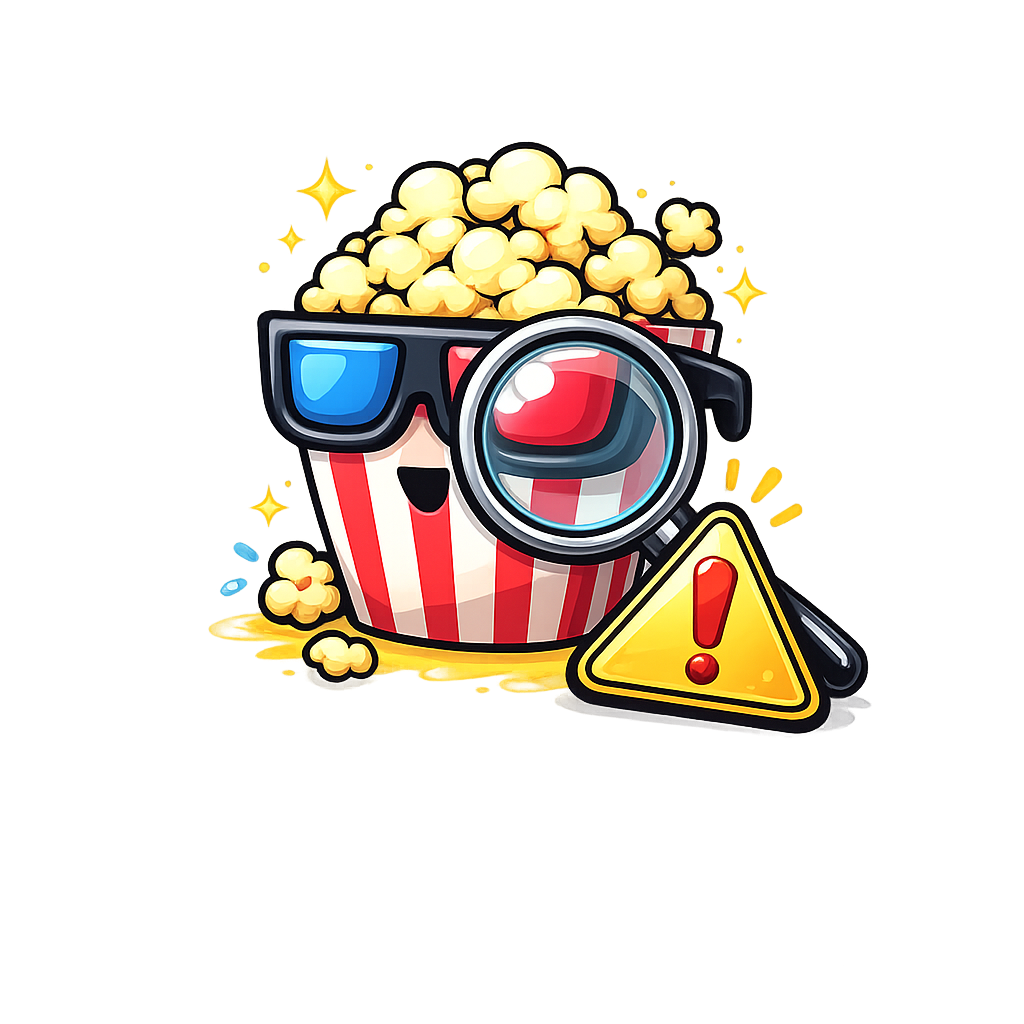
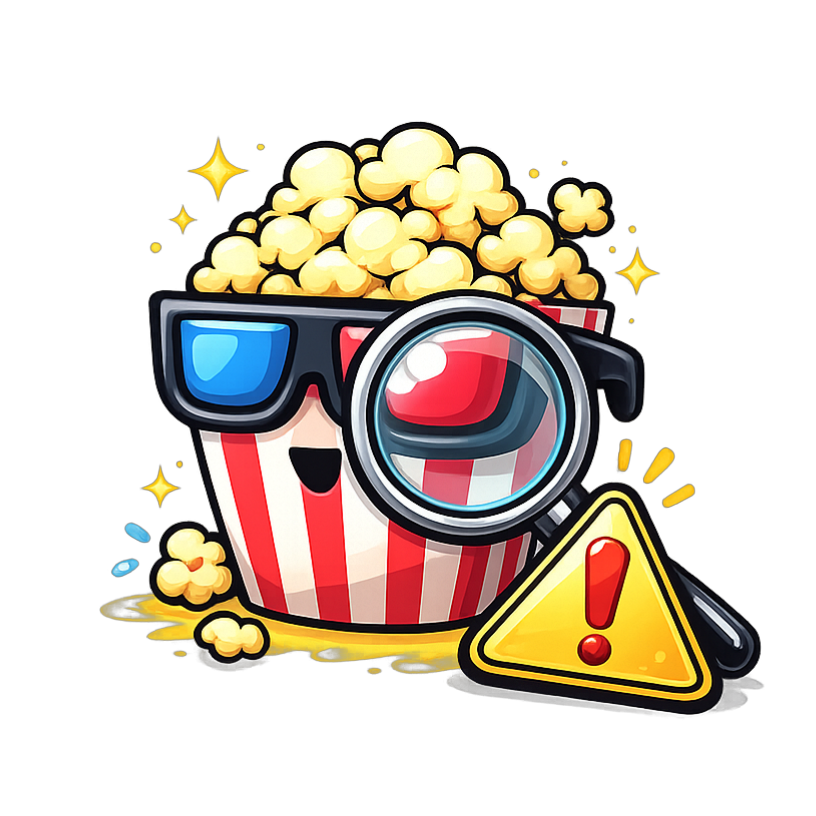
improved error pages

diff --git a/practica2/src/main/resources/templates/reviewForm.html b/practica2/src/main/resources/templates/reviewForm.html
@@ -15,44 +15,44 @@
 
                     {{#review.reviewId}}
                     <form action="/reviews/{{review.reviewId}}/edit" method="post" class="form-review">
-                        {{/review.reviewId}}
-                        {{^review.reviewId}}
-                        <form action="/filmographies/{{filmography.filmographyId}}/reviews/new" method="post"
-                            class="form-review">
-                            {{/review.reviewId}}
-                            <input type="hidden" name="_csrf" value="{{_csrf.token}}">
-                            <!-- Stars -->
-                            <div class="d-flex flex-column justify-content-center gap-1 mb-3">
-                                <label class="fw-bold text-white fs-6 mb-0">Valoración:</label>
-                                <div class="d-flex mt-0" id="starsContainer">
-                                    <i class="bi bi-star star" data-value="1"></i>
-                                    <i class="bi bi-star star" data-value="2"></i>
-                                    <i class="bi bi-star star" data-value="3"></i>
-                                    <i class="bi bi-star star" data-value="4"></i>
-                                    <i class="bi bi-star star" data-value="5"></i>
-                                    <input type="hidden" id="ratingInput" name="reviewStars"
-                                        value="{{#review.reviewStars}}{{review.reviewStars}}{{/review.reviewStars}}{{^review.reviewStars}}0{{/review.reviewStars}}">
-                                    {{#starsError}}
-                                    <div class="alert alert-danger p-1 ms-2" role="alert">Se debe seleccionar una valoración válida</div>
-                                    {{/starsError}}
-                                </div>
-                                
+                    {{/review.reviewId}}
+                    {{^review.reviewId}}
+                    <form action="/filmographies/{{filmography.filmographyId}}/reviews/new" method="post"
+                        class="form-review">
+                    {{/review.reviewId}}
+                        <input type="hidden" name="_csrf" value="{{_csrf.token}}">
+                        <!-- Stars -->
+                        <div class="d-flex flex-column justify-content-center gap-1 mb-3">
+                            <label class="fw-bold text-white fs-6 mb-0">Valoración:</label>
+                            <div class="d-flex mt-0" id="starsContainer">
+                                <i class="bi bi-star star" data-value="1"></i>
+                                <i class="bi bi-star star" data-value="2"></i>
+                                <i class="bi bi-star star" data-value="3"></i>
+                                <i class="bi bi-star star" data-value="4"></i>
+                                <i class="bi bi-star star" data-value="5"></i>
+                                <input type="hidden" id="ratingInput" name="reviewStars"
+                                    value="{{#review.reviewStars}}{{review.reviewStars}}{{/review.reviewStars}}{{^review.reviewStars}}0{{/review.reviewStars}}">
+                                {{#starsError}}
+                                <div class="alert alert-danger p-1 ms-2" role="alert">Se debe seleccionar una valoración válida</div>
+                                {{/starsError}}
                             </div>
-                            <!-- Review -->
-                            <div class="d-flex flex-column gap-2 mb-4">
-                                <textarea name="reviewDescription" class="form-control bg-white text-dark" rows="4"
-                                    placeholder="Escribe tu reseña aquí (opcional)...">{{review.reviewDescription}}</textarea>
-                            </div>
+                            
+                        </div>
+                        <!-- Review -->
+                        <div class="d-flex flex-column gap-2 mb-4">
+                            <textarea name="reviewDescription" class="form-control bg-white text-dark" rows="4"
+                                placeholder="Escribe tu reseña aquí (opcional)...">{{review.reviewDescription}}</textarea>
+                        </div>
 
-                            <div class="d-flex gap-2">
-                                <button type="submit" class="btn btn-primary p-2 w-50">
-                                    {{#review.reviewId}}Actualizar reseña{{/review.reviewId}}
-                                    {{^review.reviewId}}Añadir reseña{{/review.reviewId}}
-                                </button>
-                                <a href="/filmographies/{{filmography.filmographyId}}"
-                                    class="btn btn-danger p-2 w-50 d-flex align-items-center justify-content-center"><strong>Cancelar</strong></a>
-                            </div>
-                        </form>
+                        <div class="d-flex gap-2">
+                            <button type="submit" class="btn btn-primary p-2 w-50">
+                                {{#review.reviewId}}Actualizar reseña{{/review.reviewId}}
+                                {{^review.reviewId}}Añadir reseña{{/review.reviewId}}
+                            </button>
+                            <a href="/filmographies/{{filmography.filmographyId}}"
+                                class="btn btn-danger p-2 w-50 d-flex align-items-center justify-content-center"><strong>Cancelar</strong></a>
+                        </div>
+                    </form>
                 </div>
             </div>
         </div>

diff --git a/practica2/src/main/resources/templates/filmographyForm.html b/practica2/src/main/resources/templates/filmographyForm.html
@@ -20,13 +20,11 @@
                     {{#isSeries}}
                     <form action="/series/{{filmographyId}}/edit" enctype="multipart/form-data" method="post"
                         class="d-flex flex-column gap-3 administer-form">
-                        <input type="hidden" name="_csrf" value="{{_csrf.token}}">
                     {{/isSeries}}
 
                     {{^isSeries}}
                     <form action="/movies/{{filmographyId}}/edit" enctype="multipart/form-data" method="post"
                         class="d-flex flex-column gap-3 administer-form">
-                        <input type="hidden" name="_csrf" value="{{_csrf.token}}">
                     {{/isSeries}}
                     {{/filmographyId}}
 
@@ -34,15 +32,14 @@
                     {{#isSeries}}
                     <form action="/series/new" enctype="multipart/form-data" method="post"
                         class="d-flex flex-column gap-3 administer-form">
-                        <input type="hidden" name="_csrf" value="{{_csrf.token}}">
                     {{/isSeries}}
                     
                     {{^isSeries}}
                     <form action="/movies/new" enctype="multipart/form-data" method="post"
                         class="d-flex flex-column gap-3 administer-form">
-                        <input type="hidden" name="_csrf" value="{{_csrf.token}}">
                     {{/isSeries}}
                     {{/filmographyId}}
+                        <input type="hidden" name="_csrf" value="{{_csrf.token}}">
                         <!-- Clikable Image -->
                          {{#filmographyImage}}
                         <div class="d-flex flex-column align-items-center mb-3">

diff --git a/practica2/src/main/resources/templates/error/403.html b/practica2/src/main/resources/templates/error/403.html
@@ -1,17 +1,23 @@
 {{>head}}
 
-<div class="principal primary text-center text-info align-items-center">
+<body class="primary principal">
     {{>header}}
-
-    <h1>Error 403 : {{error}}</h1>
-    <h2>¡Vaya! Solo personal autorizado</h2>
-    <h4>No tienes los permisos necesarios para acceder a esta página</h4>
-    <div class="w-3 m-5">
-        <a href="/principal" class="btn-primary btn-sm text-light text-decoration-none ">
-            Volver al Inicio
-        </a>
+    <div class="content d-flex flex-column align-items-center justify-content-center">
+        <div class="container ">
+            <div class="row align-items-center justify-content-center">
+                <div class="col-8 col-sm-6 col-md-4 col-lg-3">
+                    <img class="img-fluid" src="/images/searchError.png" alt="Imagen Error">
+                </div>
+                <div class="col-12 col-sm-auto text-center text-md-start mt-3 mt-sm-0">
+                    <h1 class="m-0">Error 403 : {{error}}</h1>
+                    <h2 class="m-0">¡Vaya! Solo personal autorizado</h2>
+                    <h4 class="mt-2">No tienes los permisos necesarios para acceder a esta página</h4>
+                </div>
+            </div>
+        </div>
+        <a href="/principal" class="btn btn-primary p-2 px-4 text-decoration-none" style="width: auto;">Volver al Inicio</a>
     </div>
-
-
+    
     {{>footer}}
-</div>
+</body>
+</html>

diff --git a/practica2/src/main/resources/templates/error/400.html b/practica2/src/main/resources/templates/error/400.html
@@ -1,16 +1,23 @@
 {{>head}}
 
-<div class="principal primary text-center text-info align-items-center">
+<body class="primary principal">
     {{>header}}
-
-    <h1>Error 400 : {{error}}</h1>
-    <h4>No hemos podido procesar tu solicitud porque faltan datos o el formato no es el correcto</h4>
-    <div class="w-3 m-5">
-        <a href="/principal" class="btn-primary btn-sm text-light text-decoration-none ">
-            Volver al Inicio
-        </a>
+    <div class="content d-flex flex-column align-items-center justify-content-center">
+        <div class="container ">
+            <div class="row align-items-center justify-content-center">
+                <div class="col-8 col-sm-6 col-md-4 col-lg-3">
+                    <img class="img-fluid" src="/images/searchError.png" alt="Imagen Error">
+                </div>
+                <div class="col-12 col-sm-auto text-center text-md-start mt-3 mt-sm-0">
+                    <h1 class="m-0">Error 400 : {{error}}</h1>
+                    <h2 class="m-0">No hemos podido procesar tu solicitud</h2>
+                    <h4 class="mt-2">Faltan datos o el formato no es el correcto</h4>
+                </div>
+            </div>
+        </div>
+            <a href="/principal" class="btn btn-primary p-2 px-4 text-decoration-none" style="width: auto;">Volver al Inicio</a>
     </div>
-
-
+    
     {{>footer}}
-</div>
+</body>
+</html>

diff --git a/practica2/src/main/resources/templates/error/401.html b/practica2/src/main/resources/templates/error/401.html
@@ -1,17 +1,23 @@
 {{>head}}
 
-<div class="principal primary text-center text-info align-items-center">
+<body class="primary principal">
     {{>header}}
-
-    <h1>Error 401 : {{error}}</h1>
-    <h2>¿No tienes entrada?</h2>
-    <h4>Necesitas identificarte para entrar en esta página</h4>
-    <div class="w-3 m-5">
-        <a href="/login" class="btn-primary btn-sm text-light text-decoration-none ">
-            Iniciar Sesión
-        </a>
+    <div class="content d-flex flex-column align-items-center justify-content-center">
+        <div class="container ">
+            <div class="row align-items-center justify-content-center">
+                <div class="col-8 col-sm-6 col-md-4 col-lg-3">
+                    <img class="img-fluid" src="/images/searchError.png" alt="Imagen Error">
+                </div>
+                <div class="col-12 col-sm-auto text-center text-md-start mt-3 mt-sm-0">
+                    <h1 class="m-0">Error 401 : {{error}}</h1>
+                    <h2 class="m-0">¿No puedes entrar?</h2>
+                    <h4 class="mt-2">Necesitas identificarte para entrar en esta página</h4>
+                </div>
+            </div>
+        </div>
+        <a href="/principal" class="btn btn-primary p-2 px-4 text-decoration-none" style="width: auto;">Volver al Inicio</a>
     </div>
-
-
+    
     {{>footer}}
-</div>
+</body>
+</html>

diff --git a/practica2/src/main/resources/templates/error/404.html b/practica2/src/main/resources/templates/error/404.html
@@ -1,18 +1,23 @@
 {{>head}}
 
-<div class="principal primary text-center text-info align-items-center">
+<body class="primary principal">
     {{>header}}
-
-    <h1>Error 404 : {{error}}</h1>
-    <h2>¡Vaya! Parece que te has perdido</h2>
-    <h4>La URL solicitada no se encuentra</h4>
-
-    <div class="w-3 m-5">
-        <a href="/principal" class="btn-primary btn-sm text-light text-decoration-none ">
-            Volver al Inicio
-        </a>
+    <div class="content d-flex flex-column align-items-center justify-content-center">
+        <div class="container ">
+            <div class="row align-items-center justify-content-center">
+                <div class="col-8 col-sm-6 col-md-4 col-lg-3">
+                    <img class="img-fluid" src="/images/searchError.png" alt="Imagen Error">
+                </div>
+                <div class="col-12 col-sm-auto text-center text-md-start mt-3 mt-sm-0">
+                    <h1 class="m-0">Error 404 : {{error}}</h1>
+                    <h2 class="m-0">¡Vaya! Parece que te has perdido</h2>
+                    <h4 class="mt-2">La URL solicitada no se encuentra</h4>
+                </div>
+            </div>
+        </div>
+        <a href="/principal" class="btn btn-primary p-2 px-4 text-decoration-none" style="width: auto;">Volver al Inicio</a>
     </div>
-
-
+    
     {{>footer}}
-</div>
+</body>
+</html>

diff --git a/practica2/src/main/resources/templates/error/500.html b/practica2/src/main/resources/templates/error/500.html
@@ -1,17 +1,24 @@
 {{>head}}
 
-<div class="principal primary text-center text-info align-items-center">
+<body class="primary principal">
     {{>header}}
-
-    <h1>Error 500 : {{error}}</h1>
-    <h2>Hubo un fallo técnico. Lo siento.</h2>
-    <h4>Error: {{message}}</h4>
-    <div class="w-3 m-5">
-        <a href="/principal" class="btn-primary btn-sm text-light text-decoration-none ">
-            Volver al Inicio
-        </a>
+    <div class="content d-flex flex-column align-items-center justify-content-center">
+        <div class="container">
+            <div class="row align-items-center justify-content-center">
+                <div class="col-8 col-sm-6 col-md-4 col-lg-3">
+                    <img class="img-fluid" src="/images/searchError.png" alt="Imagen Error">
+                </div>
+                <div class="col-12 col-sm-auto text-center text-md-start mt-3 mt-sm-0">
+                    <h1 class="m-0">Error 500 : {{error}}</h1>
+                    <h2 class="m-0">Ha habido un fallo técnico. Lo sentimos</h2>
+                    
+                </div>
+            </div>
+        </div>
+        <h4 class="text-center mx-3">Error: {{message}}</h4>
+        <a href="/principal" class="btn btn-primary p-2 px-4 text-decoration-none" style="width: auto;">Volver al Inicio</a>
     </div>
-
-
+    
     {{>footer}}
-</div>
+</body>
+</html>

diff --git a/practica2/src/main/resources/templates/error/503.html b/practica2/src/main/resources/templates/error/503.html
@@ -1,15 +1,22 @@
 {{>head}}
 
-<div class="principal primary text-center text-info align-items-center">
+<body class="primary principal">
     {{>header}}
-
-    <h1>Error 503 : {{error}}</h1>
-    <h2>Servicio no disponible</h2>
-    <div class="w-3 m-5">
-        <a href="/principal" class="btn-primary btn-sm text-light text-decoration-none ">
-            Ir al Inicio
-        </a>
+    <div class="content d-flex flex-column align-items-center justify-content-center">
+        <div class="container ">
+            <div class="row align-items-center justify-content-center">
+                <div class="col-8 col-sm-6 col-md-4 col-lg-3">
+                    <img class="img-fluid" src="/images/searchError.png" alt="Imagen Error">
+                </div>
+                <div class="col-12 col-sm-auto text-center text-md-start mt-3 mt-sm-0">
+                    <h1 class="m-0">Error 503 : {{error}}</h1>
+                    <h2 class="m-0">Servicio no disponible</h2>
+                </div>
+            </div>
+        </div>
+        <a href="/principal" class="btn btn-primary p-2 px-4 text-decoration-none" style="width: auto;">Volver al Inicio</a>
     </div>
-
+    
     {{>footer}}
-</div>
+</body>
+</html>

diff --git a/practica2/src/main/resources/templates/profile.html b/practica2/src/main/resources/templates/profile.html
@@ -31,6 +31,7 @@
 
                     {{#fromAdmin}}
                     <form action="/administrator/profile/{{currentUser.accountId}}/editProfile" method="post">
+                        <input type="hidden" name="_csrf" value="{{_csrf.token}}">
                         <div class="text-center mb-4">
                             <img id="avatarProfile" src="{{currentUser.accountAvatar}}" class="rounded-circle"
                                 width="175" height="175">
@@ -142,7 +143,7 @@
                 </div>
                 <div class="modal-footer">
                     <form id="avatarForm" action="/profile/avatar" method="post">
-
+                        <input type="hidden" name="_csrf" value="{{_csrf.token}}">
                         <input type="hidden" id="avatarInput" name="avatarSrc" value="{{currentUser.accountAvatar}}">
                         <button type="button" class="btn btn-secondary btn-small"
                             data-bs-dismiss="modal">Cerrar</button>

diff --git a/practica2/src/main/resources/templates/searchBar.html b/practica2/src/main/resources/templates/searchBar.html
@@ -23,7 +23,6 @@
         {{/noResults}}
         
         {{^noResults}}
-            
             {{#movies.0}}
                 <h3>Películas:</h3>
                 <div class="result mb-4">

diff --git a/practica2/src/main/java/es/code/urjc/practica2/controller/AdministratorController.java b/practica2/src/main/java/es/code/urjc/practica2/controller/AdministratorController.java
@@ -68,7 +68,6 @@ public class AdministratorController {
         model.addAttribute("usersListsPreview", allUsersLists.stream().limit(5).collect(Collectors.toList()));
         model.addAttribute("usersLists", allUsersLists);
 
-
         //Chart
         Map <String, Long> genreCount = filmographyService.countByGenre();
         String labels = "[" + genreCount.keySet().stream().map(k -> "\"" + k + "\"" ).collect(Collectors.joining(","))+ "]";
@@ -242,6 +241,7 @@ public class AdministratorController {
 
     private void addFilmographyAttributes(Model model, Filmography f){
         model.addAttribute("filmographyId", f.getFilmographyId());
+        model.addAttribute("filmographyImage", f.getFilmographyImage());
         model.addAttribute("filmographyName", f.getFilmographyName());
         model.addAttribute("filmographyDirector", f.getDirectorName());
         model.addAttribute("filmographyYear", f.getFilmographyYear());
